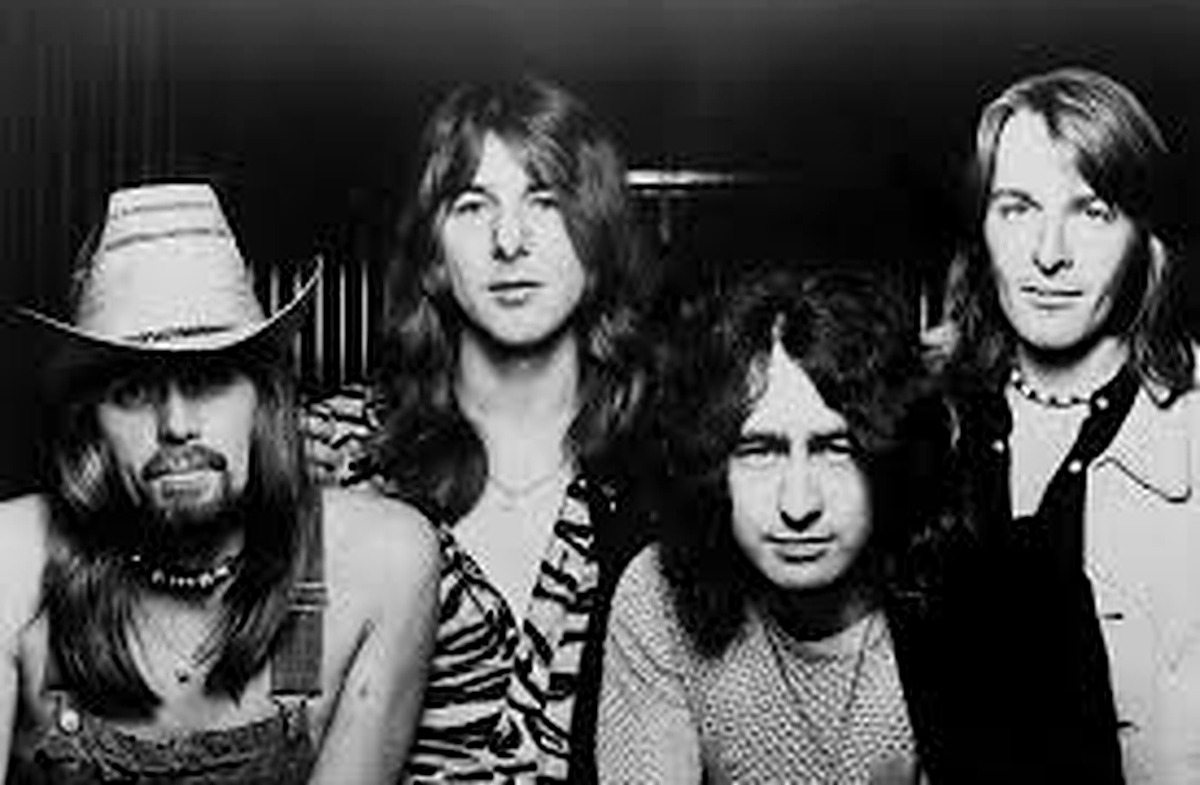
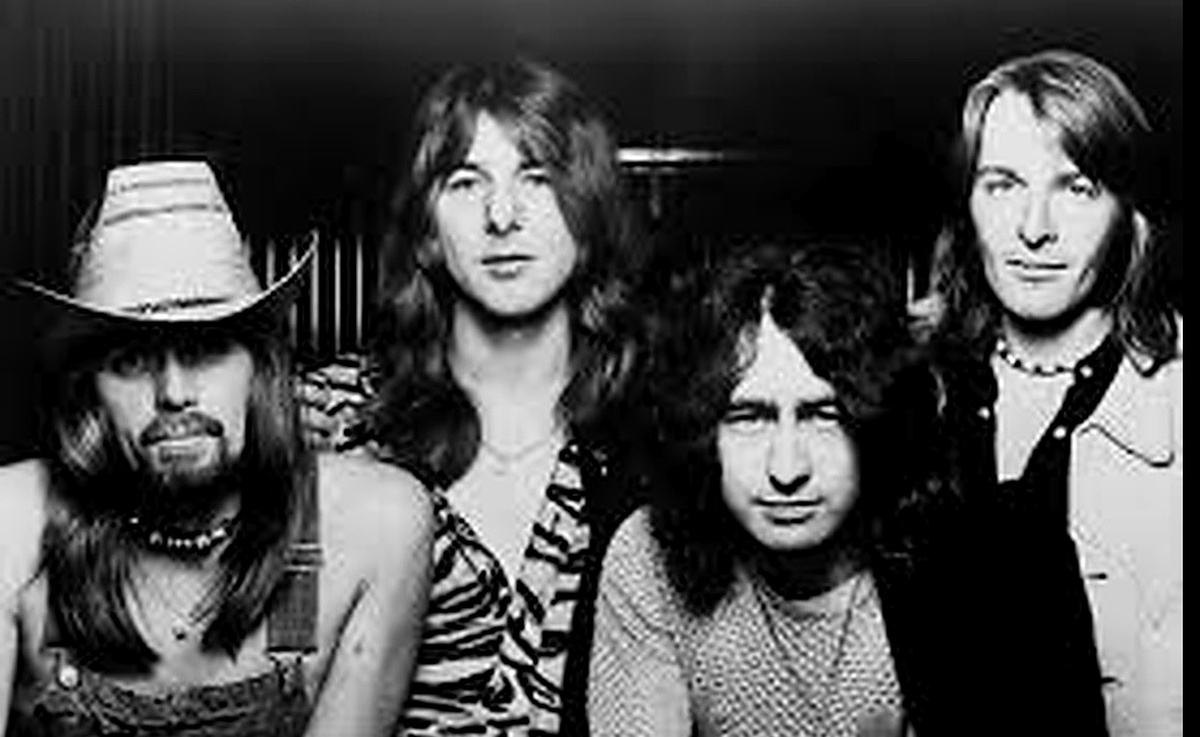
4

diff --git a/src/styles.css b/src/styles.css
@@ -170,8 +170,15 @@ h1 {
 }
 
 .page-hero--post h1 {
-  font-size: clamp(2.1rem, 4vw, 3.35rem);
+  font-size: clamp(1.65rem, 2.5vw, 2.35rem);
+  line-height: 1.06;
   text-wrap: balance;
+  max-width: 14ch;
+}
+
+.page-hero--post .lead {
+  font-size: 0.98rem;
+  max-width: 48ch;
 }
 
 h2 {
@@ -476,7 +483,7 @@ p {
 }
 
 .page-hero--post > div:first-child {
-  padding: 1.7rem 1.8rem;
+  padding: 1.45rem 1.55rem;
 }
 
 .page-hero--post .feature-image {